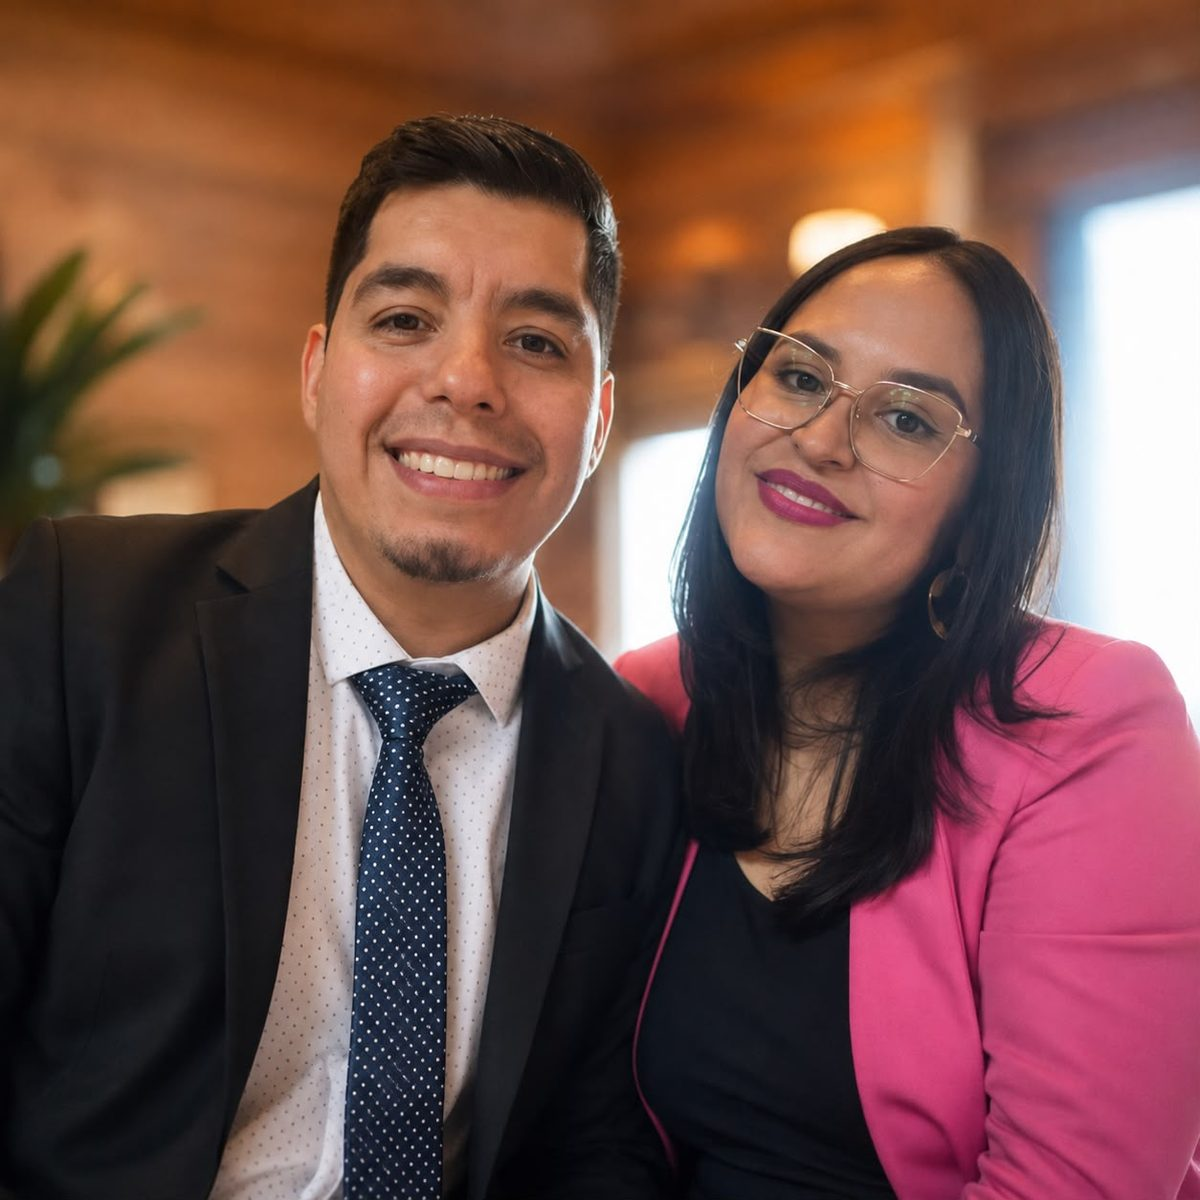
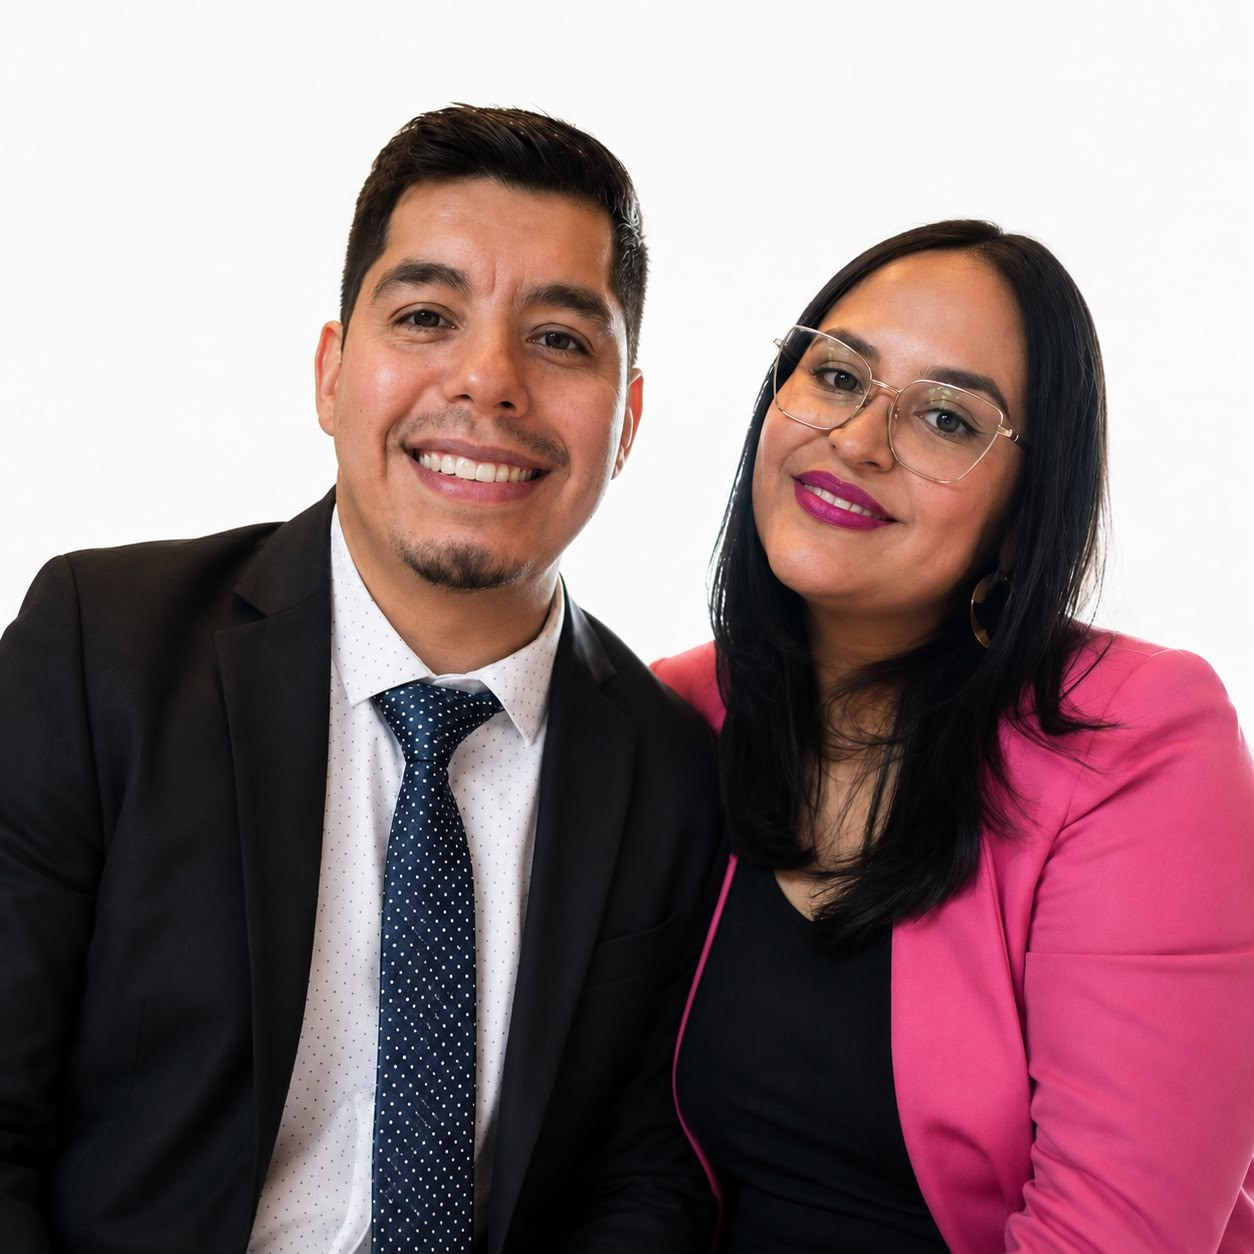
Equipo: retrato de estudio para Roberto y Araceli
La foto anterior era de interior y su tarjeta era la más oscura de la
cuadrícula: para igualar el fondo hacía falta un brillo de 2.3 y pasado
1.3 se le quemaban las caras. La nueva es de fondo blanco, así que el
fondo entra en el ajuste común —0.73 lleva su gris al 182 de todas— y la
tarjeta deja de cantar.

Sigue sin poder abrirse: llega recortada en cuadrado y ajustada, y las
caras salen algo más grandes que en el resto.

Claude-Session: https://claude.ai/code/session_01VUM8Ddn8V5mGAtZUv82xvz

diff --git a/src/data/content.ts b/src/data/content.ts
@@ -868,14 +868,7 @@ export const about = {
             name: 'Roberto Quinteros y Araceli Chaparro',
             role: 'Pastores de Jóvenes',
             photo: equipoRobertoAraceli,
-            /*
-              La suya no es de estudio sino una foto de interior, mucho más
-              oscura: para igualar el fondo haría falta un 2.3, y pasado 1.3 se le
-              queman las caras. Se queda en el tope y su tarjeta sigue siendo la
-              más oscura de la cuadrícula; eso lo arregla una foto de estudio, no
-              el brillo.
-            */
-            luz: 1.3,
+            luz: 0.73,
             photoHover: equipoRobertoAraceli2,
           },
           {

diff --git a/AGENTS.md b/AGENTS.md
@@ -89,10 +89,14 @@ mensajes de commit van en español.
   arregla una fórmula. Si hay que retocar una tarjeta, se retoca a ojo y
   mirando las demás.
 
-  Roberto y Araceli es la única que no llega del todo: su foto no es de la
-  sesión de estudio sino una instantánea ya recortada en cuadrado, así que no
-  se puede abrir más (`zoom` no baja de 1) y se ven algo más grandes que el
-  resto. Se arregla con una foto suya de estudio.
+  Roberto y Araceli es la única que no llega del todo. Su foto sí es de fondo
+  blanco y el tono ya iguala al resto, pero llega recortada en cuadrado y
+  ajustada: los dos se salen por los tres filos —el hombro de él por la
+  izquierda, ella por la derecha, los dos por abajo— y las caras salen algo
+  más grandes que en las demás tarjetas. No se puede abrir más: `zoom` no baja
+  de 1, y ensanchar el lienzo con blanco tampoco vale, porque el corte de un
+  hombro oscuro contra el blanco añadido se ve como una línea recta. Se
+  arregla con el archivo completo de la sesión, no con CSS.
 
   Fuera de la sesión de estudio quedan otras dos, y las dos van sin `luz`,
   que es un ajuste pensado para el fondo blanco: los fundadores posan sobre
